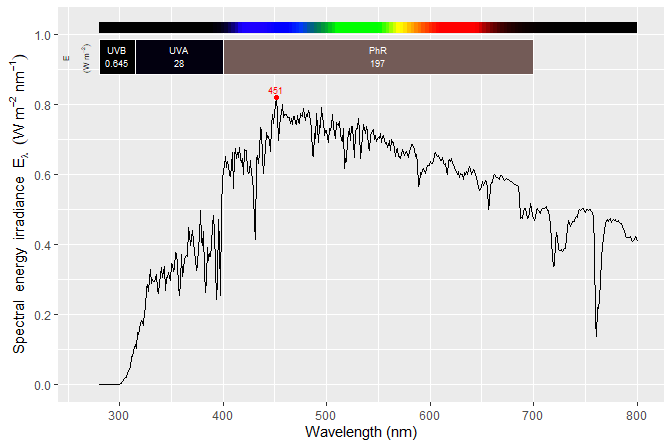
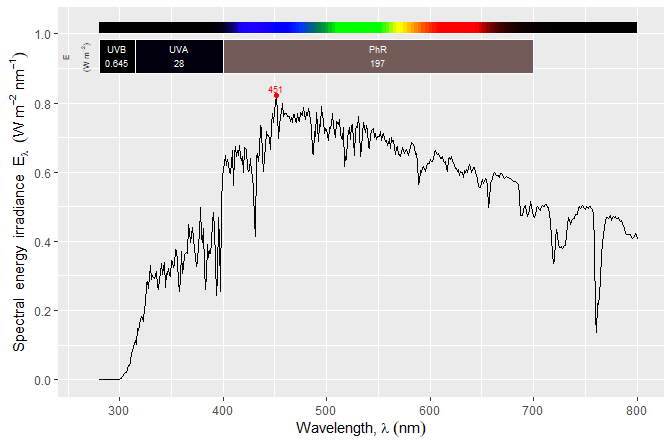
Fix inheritance problems in autoplot() docs
Inheritance blocked by unnecessary local sections

diff --git a/NEWS.md b/NEWS.md
@@ -28,6 +28,9 @@ derived so that summaries requested by arguments passed to parameter `plot.data`
 are computed for multiple spectra in long form like they were for collections
 of spectra.
 - Fix broken `idfactor` handling in `autoplot()` methods for objects of class `generic_spct` and derived.
+- Use in `autoplot()` methods a plotmath expression for the wavelength axis 
+label, including lambda as symbol, for consistency with the labels of the 
+_y_-axis.
 
 # ggspectra 0.3.12
 
